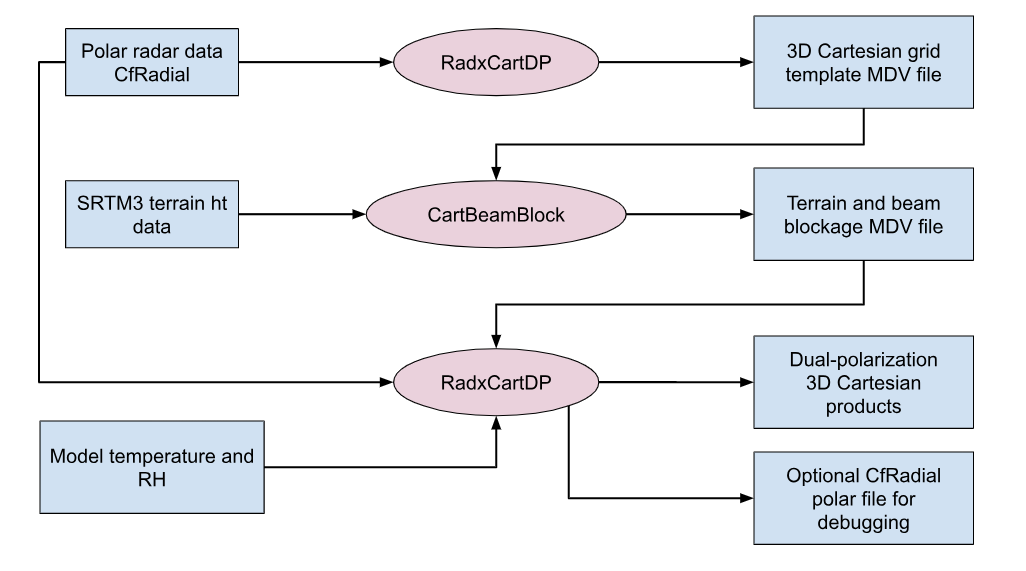
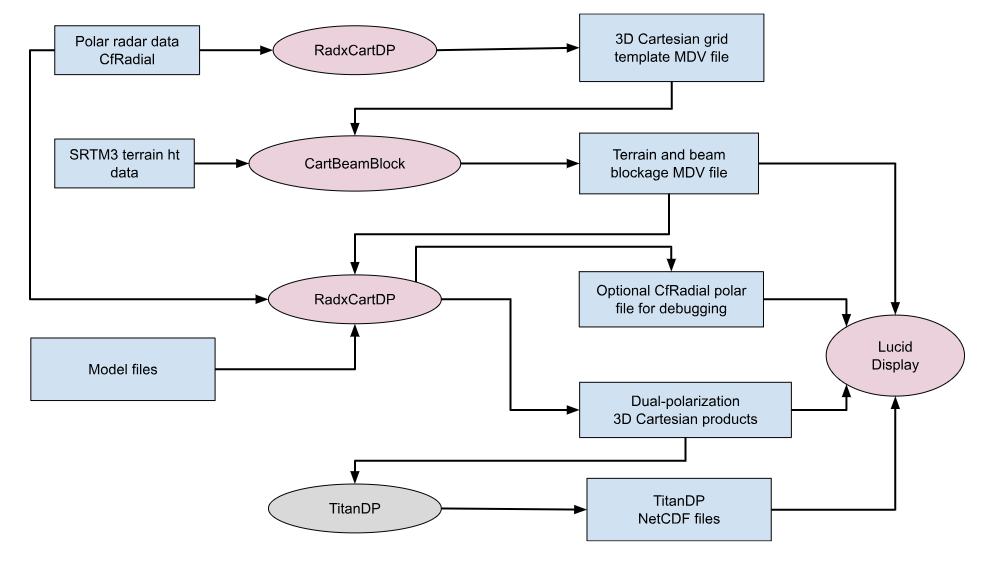
TitanDP README

diff --git a/projects/TitanDP/README.md b/projects/TitanDP/README.md
@@ -1,5 +1,19 @@
 # TITAN Dual-Polarization tutorial
 
+## Overview
+
+TitanDP is under development. This document will be updated as progress is made.
+
+Initially we are working with a single radar volume.
+
+The single radar processing flow is as follows:
+
+![Alt text](./images/titan_dp_data_flow.png)
+
+Later we will add a dual-polarization merge step to create a mosaic, and run TitanDP on the mosaic:
+
+![Alt text](./images/merged_dp_data_flow.png)
+
 ## Input data
 
 The input data for this tutorial is from the PECAN field campaign. PECAN was run in Kansas from June to July 2015.
@@ -8,11 +22,15 @@ For this initial testing we are using data for the KFTG NEXRAD radar, located at
 
 * This is a convective storm case, with a squall line moving west to east.
 
-The data ```TitanDP_example_data.tgz``` can be downloaded from Mike's Google drive:
+![Alt text](./images/kftg_cart_dbz.png)
+
+The data for this tutorial is a compressed tar file: ```TitanDP_example_data.tgz```. This can be downloaded from Mike's Google drive at:
 
 * [TitanDP tutorial data](https://drive.google.com/drive/folders/1Hd3B5GvT4iaY7h_Gi4uR7RJYdorsXxC3)
 
-To be consistent, you should create a ```$HOME/data``` directory and untar the file there.
+For the processing to work smoothly, you need to be consistent and put the data in the correct location.
+
+You should create a ```$HOME/data``` directory and untar the file there.
 
 ```
   cd $HOME
@@ -34,29 +52,6 @@ These are, respectively:
 * SRTM 3 arc second (90m) resolution Terrain Height Data from the NASA shuttle mission.
 * CfRadial data from KFTG radar.
 * MDV model files from the RUC.
-
-## Output data
-
-After the full analysis has been run, the following derived data directories should exist:
-
-```
-  ~/data/TitanDP/ERA5/spdb/Strathmore/20240806* (soundings from ERA5)
-  ~/data/TitanDP/ERA5/spdb/KingCity/20220521* (soundings from ERA5)
-  ~/data/TitanDP/radar/cfradial/no_qc/Strathmore/20240806/cfrad.20240806*nc (cfradial before QC)
-  ~/data/TitanDP/radar/cfradial/no_qc/KingCity/20220521/cfrad.20220521*nc (cfradial before QC)
-  ~/data/TitanDP/radar/cfradial/qc/Strathmore/20240806/cfrad.20240806*nc (cfradial after QC)
-  ~/data/TitanDP/radar/cfradial/qc/KingCity/20220521/cfrad.20220521*nc (cfradial after QC)
-  ~/data/TitanDP/radar/cfradial/pid/Strathmore/20240806/cfrad.20240806*nc (cfradial PID)
-  ~/data/TitanDP/radar/cfradial/pid/Strathmore/20240806/cfrad.20240806*nc (cfradial PID)
-  ~/data/TitanDP/radar/cart/qc/Strathmore/20240806/ncf_20240806*nc (Cartesian MDC CF-compliant netcdf)
-  ~/data/TitanDP/radar/cart/qc/KingCity/20220521/ncf_202205216*nc (Cartesian MDC CF-compliant netcdf)
-  ~/data/TitanDP/titan/storms/Strathmore/20240806* (Titan binary files)
-  ~/data/TitanDP/titan/storms/KingCity/20220521* (Titan binary files)
-  ~/data/TitanDP/titan/ascii/Tracks2Ascii.hail.txt (Titan output converted by Tracks2Ascii)
-  ~/data/TitanDP/titan/ascii/Tracks2Ascii.derecho.txt (Titan output converted by Tracks2Ascii)
-  ~/data/TitanDP/titan/netcdf/Strathmore/titan_20240806.nc (Titan output converted by Tstorms2NetCDF)
-  ~/data/TitanDP/titan/netcdf/KingCity/titan_20220521.nc (Titan output converted by Tstorms2NetCDF)
-```
 
 ## Checking out the project
 
@@ -80,12 +75,6 @@ The structure of the TitanDP part of this repo is as follows:
   ~/git/lrose-titan/projects/TitanDP/scripts
   ~/git/lrose-titan/projects/TitanDP/data
 ```
-
-## Overview
-
-The overall processing flow is as follows:
-
-![Alt text](./images/titan_dp_data_flow.png)
 
 ## Setting up the environment
 
@@ -264,6 +253,29 @@ Dual-polarization products:
   EchoType3D
   EchoType2D
   Convectivity3D
+
+## Output data
+
+After the full analysis has been run, the following derived data directories should exist:
+
+```
+  ~/data/TitanDP/ERA5/spdb/Strathmore/20240806* (soundings from ERA5)
+  ~/data/TitanDP/ERA5/spdb/KingCity/20220521* (soundings from ERA5)
+  ~/data/TitanDP/radar/cfradial/no_qc/Strathmore/20240806/cfrad.20240806*nc (cfradial before QC)
+  ~/data/TitanDP/radar/cfradial/no_qc/KingCity/20220521/cfrad.20220521*nc (cfradial before QC)
+  ~/data/TitanDP/radar/cfradial/qc/Strathmore/20240806/cfrad.20240806*nc (cfradial after QC)
+  ~/data/TitanDP/radar/cfradial/qc/KingCity/20220521/cfrad.20220521*nc (cfradial after QC)
+  ~/data/TitanDP/radar/cfradial/pid/Strathmore/20240806/cfrad.20240806*nc (cfradial PID)
+  ~/data/TitanDP/radar/cfradial/pid/Strathmore/20240806/cfrad.20240806*nc (cfradial PID)
+  ~/data/TitanDP/radar/cart/qc/Strathmore/20240806/ncf_20240806*nc (Cartesian MDC CF-compliant netcdf)
+  ~/data/TitanDP/radar/cart/qc/KingCity/20220521/ncf_202205216*nc (Cartesian MDC CF-compliant netcdf)
+  ~/data/TitanDP/titan/storms/Strathmore/20240806* (Titan binary files)
+  ~/data/TitanDP/titan/storms/KingCity/20220521* (Titan binary files)
+  ~/data/TitanDP/titan/ascii/Tracks2Ascii.hail.txt (Titan output converted by Tracks2Ascii)
+  ~/data/TitanDP/titan/ascii/Tracks2Ascii.derecho.txt (Titan output converted by Tracks2Ascii)
+  ~/data/TitanDP/titan/netcdf/Strathmore/titan_20240806.nc (Titan output converted by Tstorms2NetCDF)
+  ~/data/TitanDP/titan/netcdf/KingCity/titan_20220521.nc (Titan output converted by Tstorms2NetCDF)
+```
 
 You can view the results using HawkEye:
 
